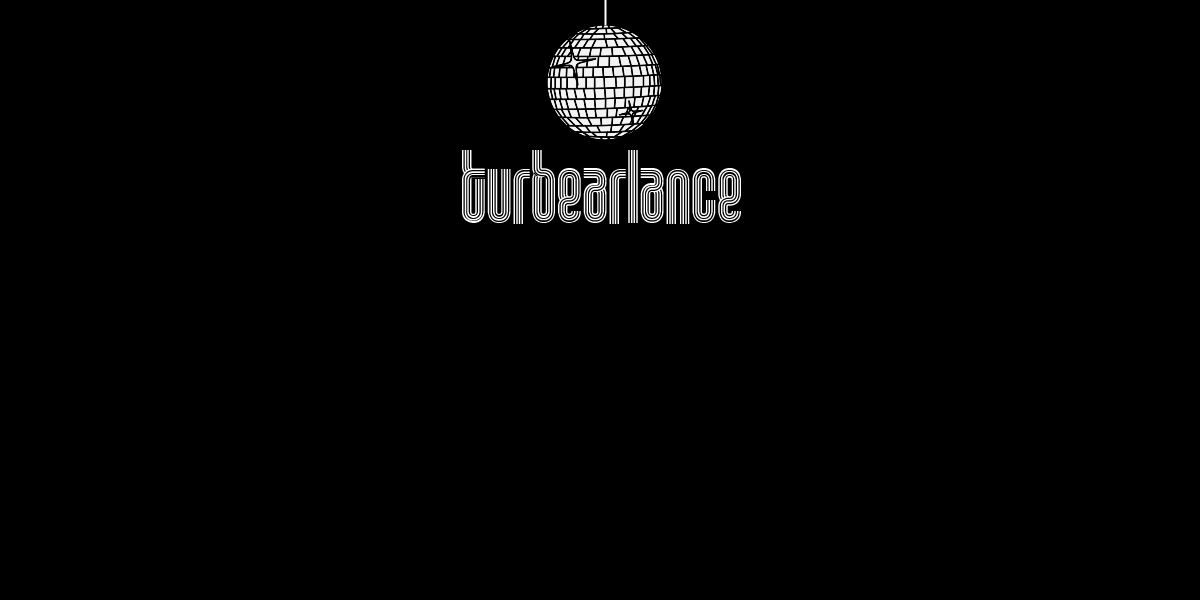
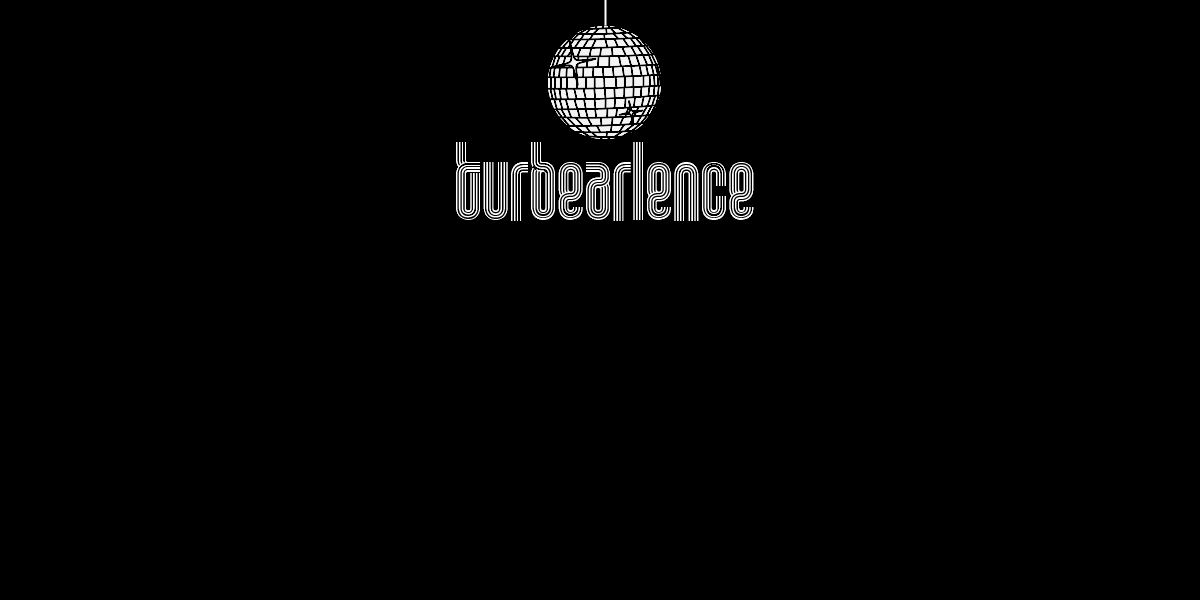
Updated waypoint images
Updated waypoint images and corrected spelling mistake on title page

Changed region(s): [[0.37, 0.24, 0.6475, 0.39]]

diff --git a/src/logicClasses/Waypoint.java b/src/logicClasses/Waypoint.java
@@ -57,7 +57,7 @@ public class Waypoint extends Point {
 		    	
 	    	}
 	    	g.setColor(Color.black);
-	    	g.drawString(this.pointRef, (int)this.x-3, (int)this.y-9);
+	    	g.drawString(this.pointRef, (int)this.x-3, (int)this.y-4);
 		
 	    }
 	
